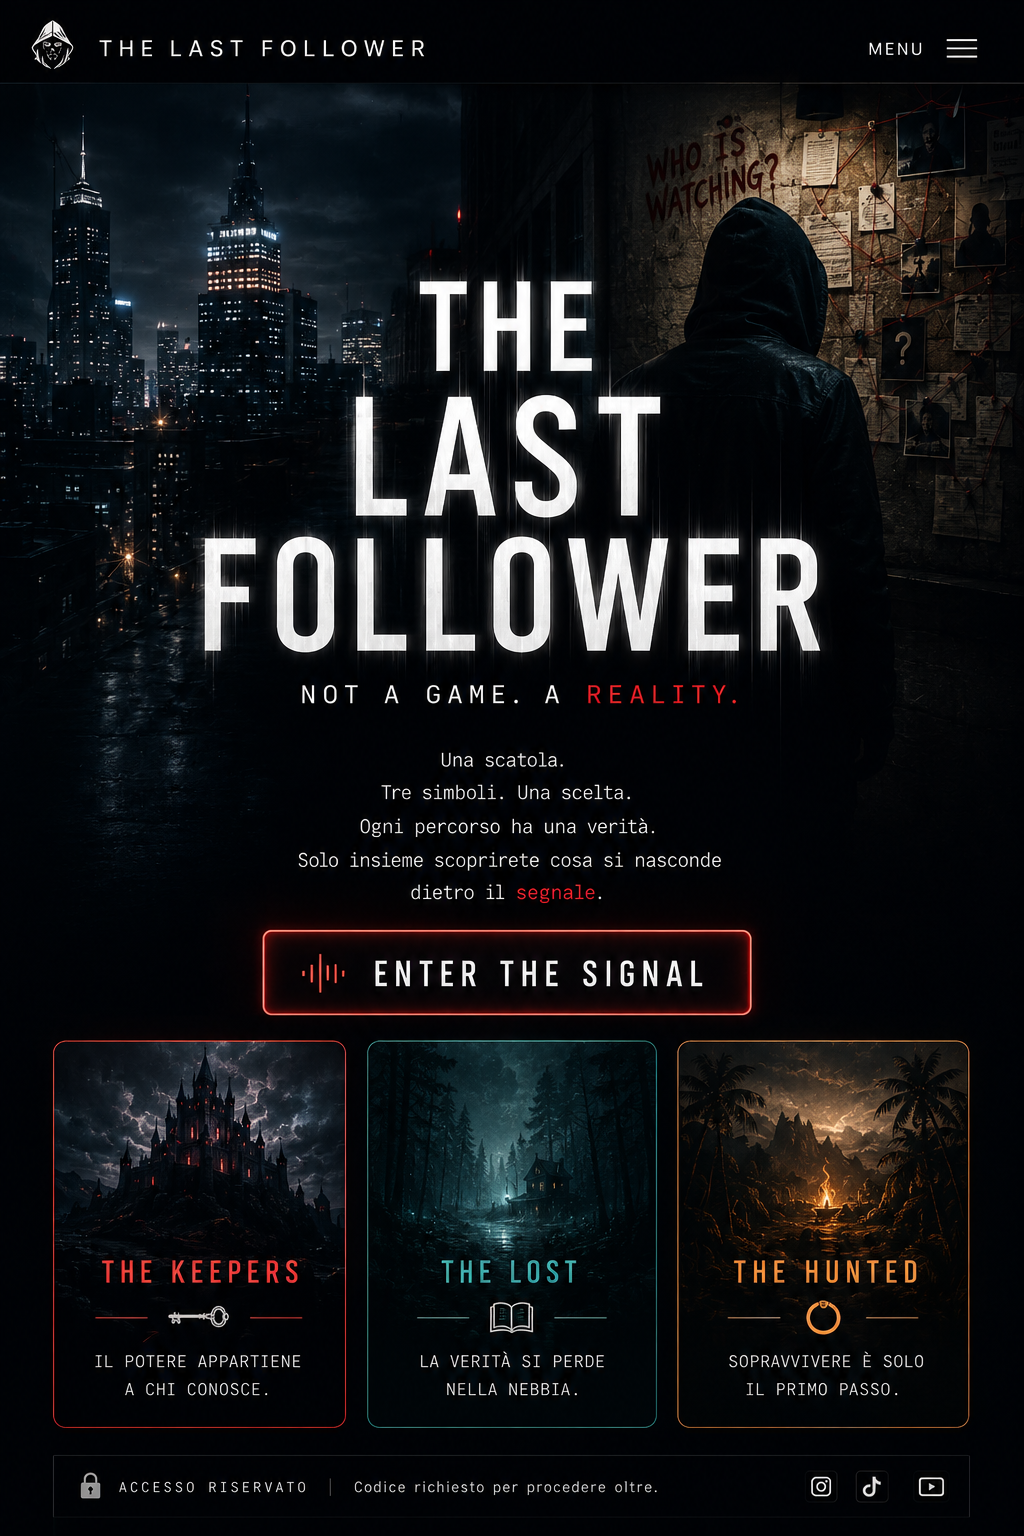
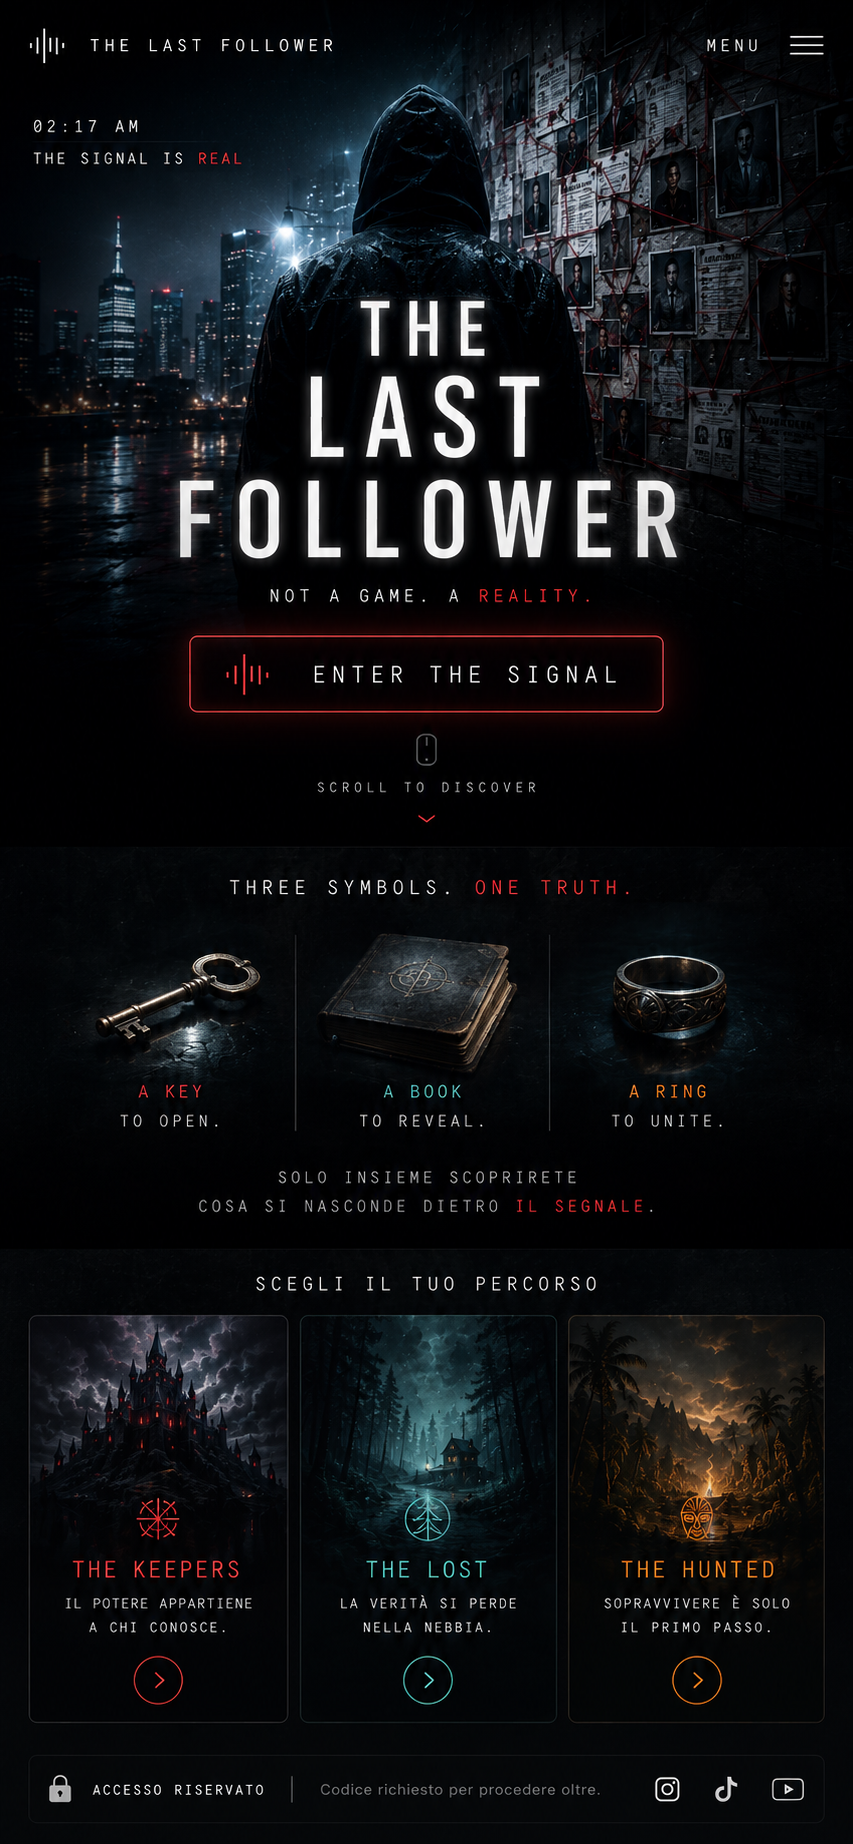
Add files via upload

diff --git a/index.html b/index.html
@@ -1,49 +1,105 @@
 <!doctype html>
-<html lang="en">
+<html lang="it">
 <head>
 <meta charset="utf-8">
-<meta name="viewport" content="width=device-width,initial-scale=1">
+<meta name="viewport" content="width=device-width,initial-scale=1,viewport-fit=cover">
 <title>THE LAST FOLLOWER</title>
 <style>
+*{box-sizing:border-box}
 html,body{
-margin:0;
-padding:0;
-background:#000;
-height:100%;
-overflow:hidden;
-font-family:Arial,sans-serif;
+  margin:0;
+  background:#020406;
+  color:#fff;
+  font-family:Arial, Helvetica, sans-serif;
 }
-.hero{
-position:relative;
-width:100%;
-height:100vh;
-background:url('landing.png') center center / cover no-repeat;
+body{
+  min-height:100vh;
+  overflow-x:hidden;
 }
-.overlay{
-position:absolute;
-inset:0;
-background:linear-gradient(to bottom, rgba(0,0,0,.15), rgba(0,0,0,.35));
+.stage{
+  position:relative;
+  width:100%;
+  min-height:100vh;
+  background:#020406;
 }
-.enter{
-position:absolute;
-left:50%;
-transform:translateX(-50%);
-bottom:7%;
-padding:18px 36px;
-border-radius:18px;
-background:rgba(0,0,0,.55);
-border:1px solid rgba(255,255,255,.18);
-color:#fff;
-font-size:20px;
-font-weight:800;
-backdrop-filter:blur(8px);
+.poster{
+  display:block;
+  width:100%;
+  height:auto;
+  min-height:100vh;
+  object-fit:cover;
+  object-position:top center;
+}
+.signal{
+  position:fixed;
+  left:50%;
+  bottom:calc(22px + env(safe-area-inset-bottom));
+  transform:translateX(-50%);
+  width:min(86vw,420px);
+  padding:17px 22px;
+  border-radius:18px;
+  border:1px solid rgba(255,55,55,.72);
+  background:rgba(7,9,13,.72);
+  color:#fff;
+  text-align:center;
+  text-decoration:none;
+  letter-spacing:.18em;
+  font-weight:900;
+  font-size:14px;
+  backdrop-filter:blur(10px);
+  box-shadow:0 0 28px rgba(255,30,30,.28);
+}
+.signal span{color:#ff3636}
+.fade{
+  position:fixed;
+  left:0;
+  right:0;
+  bottom:0;
+  height:130px;
+  pointer-events:none;
+  background:linear-gradient(to top,#020406,rgba(2,4,6,0));
+}
+@media(min-width:900px){
+  body{display:flex;justify-content:center}
+  .stage{max-width:520px}
+  .signal{max-width:380px}
 }
 </style>
 </head>
 <body>
-<div class="hero">
-<div class="overlay"></div>
-<div class="enter">SIGNAL CONNECTED</div>
-</div>
+<main class="stage">
+  <img class="poster" src="landing.png" alt="The Last Follower landing">
+  <div class="fade"></div>
+  <a class="signal" href="#signal">ENTER <span>THE SIGNAL</span></a>
+</main>
+
+<script>
+document.querySelector('.signal').addEventListener('click', function(e){
+  e.preventDefault();
+  document.body.innerHTML = `
+  <div style="min-height:100vh;background:#020406;color:white;font-family:Arial;padding:32px;display:flex;align-items:center;justify-content:center;text-align:center">
+    <div>
+      <div style="color:#ff3636;letter-spacing:.25em;font-weight:900;margin-bottom:20px">SIGNAL_01</div>
+      <h1 style="font-size:52px;line-height:.92;margin:0 0 20px">THREE SYMBOLS.<br>ONE TRUTH.</h1>
+      <p style="color:#b8bfca;font-size:20px;line-height:1.55">Una scatola. Tre simboli. Una scelta. Il primo accesso richiede un codice.</p>
+      <div style="margin-top:28px;padding:18px;border:1px solid rgba(255,255,255,.14);border-radius:18px;background:#10151c">
+        <input id="code" placeholder="ENTER ACCESS CODE" style="width:100%;padding:16px;border-radius:14px;border:0;font-size:16px;text-align:center;letter-spacing:.18em;background:#fff;color:#111">
+        <button onclick="checkCode()" style="width:100%;margin-top:12px;padding:16px;border-radius:14px;border:0;background:#ff3636;color:#fff;font-weight:900;letter-spacing:.12em">UNLOCK</button>
+        <div id="out" style="margin-top:14px;color:#e7c27b"></div>
+      </div>
+    </div>
+  </div>`;
+});
+
+function checkCode(){
+  const code = document.getElementById('code').value.trim().toUpperCase();
+  const out = document.getElementById('out');
+  if(code === 'SIGNAL01' || code === 'SIGNAL_01'){
+    out.innerHTML = 'ACCESS GRANTED. The first path is opening...';
+  } else {
+    out.innerHTML = 'ACCESS DENIED. The signal does not recognize you.';
+  }
+}
+</script>
 </body>
 </html>
